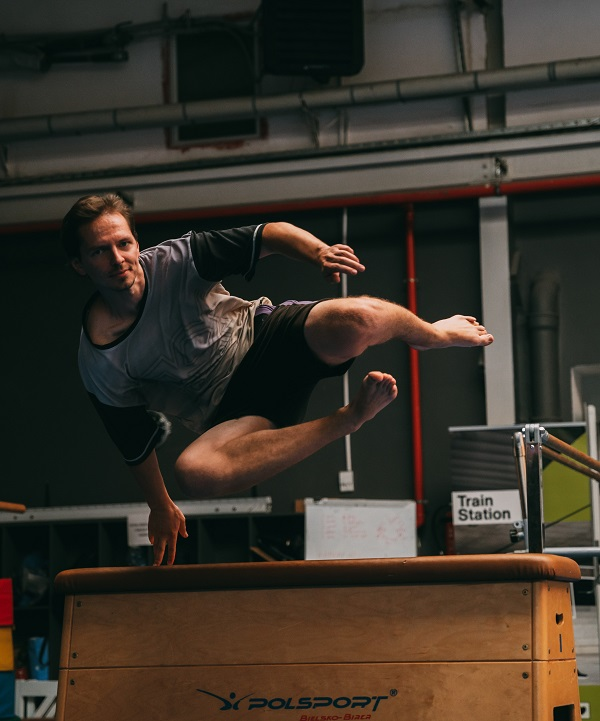
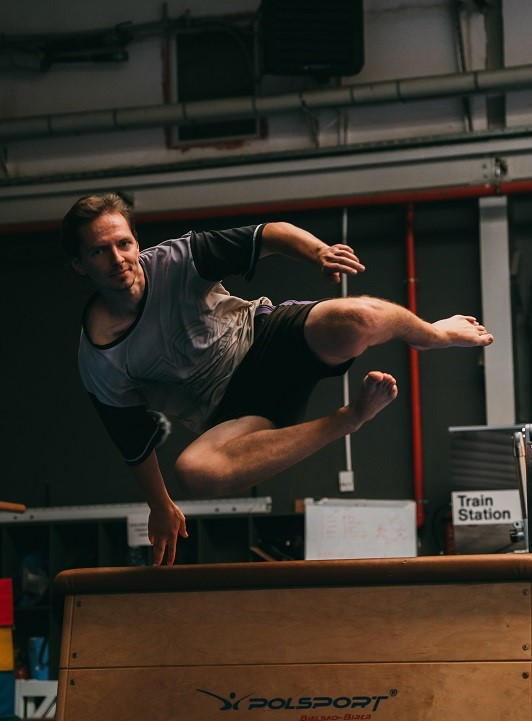
added changes

diff --git a/gallery/gallery.css b/gallery/gallery.css
@@ -285,7 +285,7 @@
 
 .gallery-img {
     height: 300px;
-    width: 230px;
+    width: 220px;
     border: 2px solid #ddd;
     border-radius: 5px;
     box-shadow: 0 0 5px rgba(0, 0, 0, 0.1);
